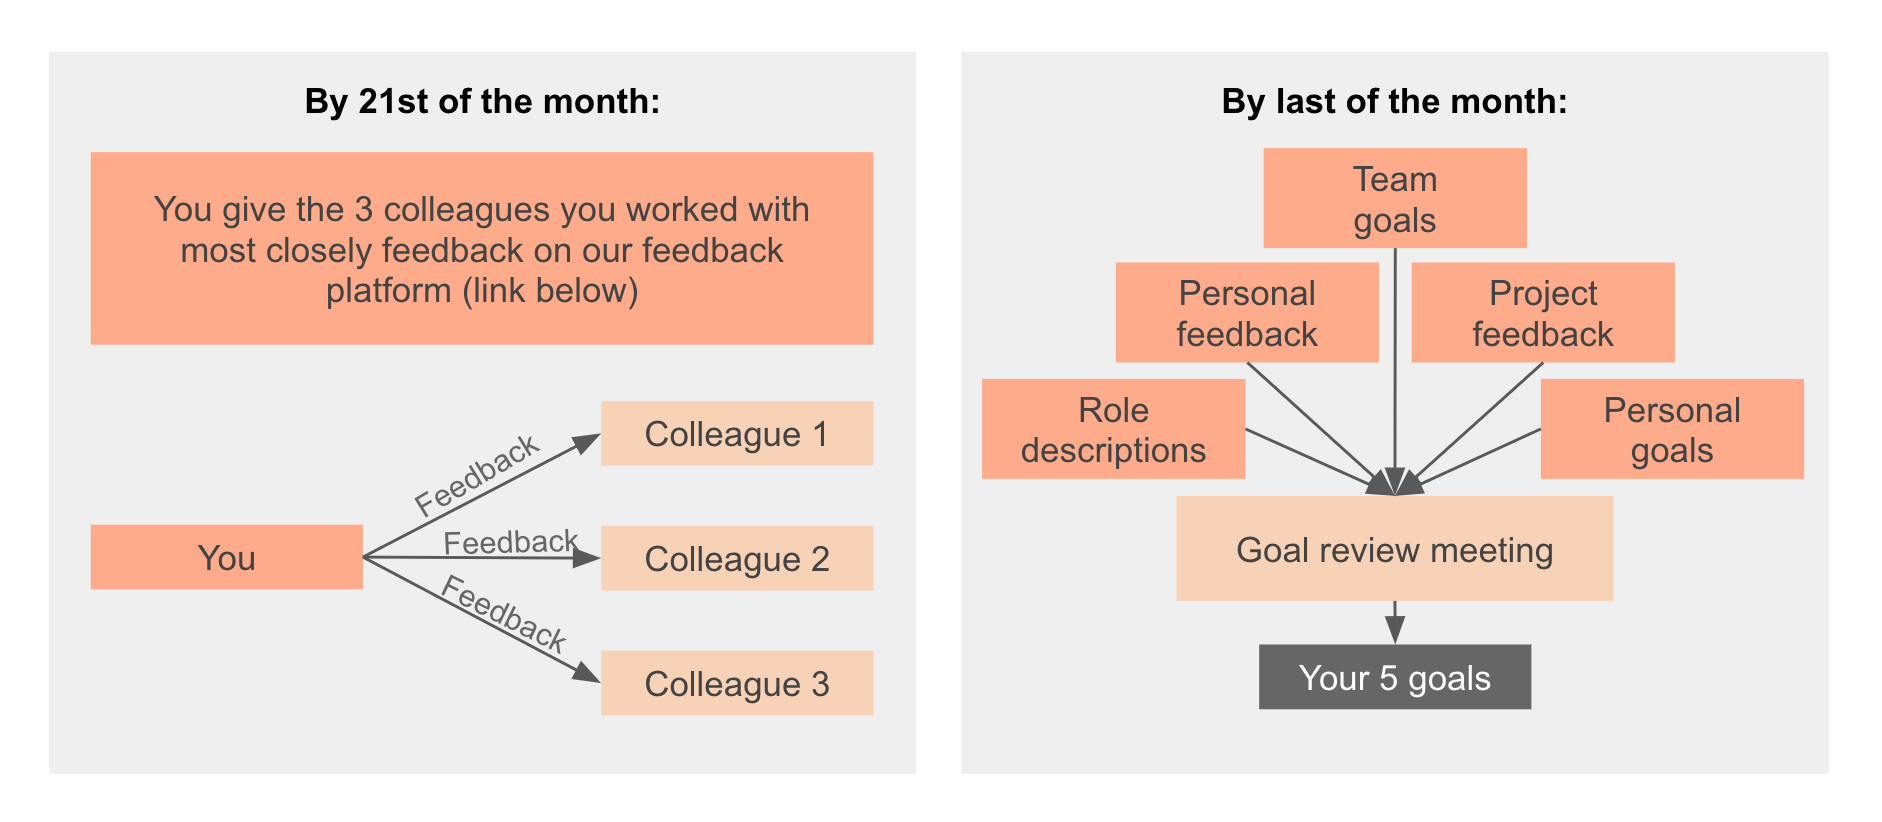
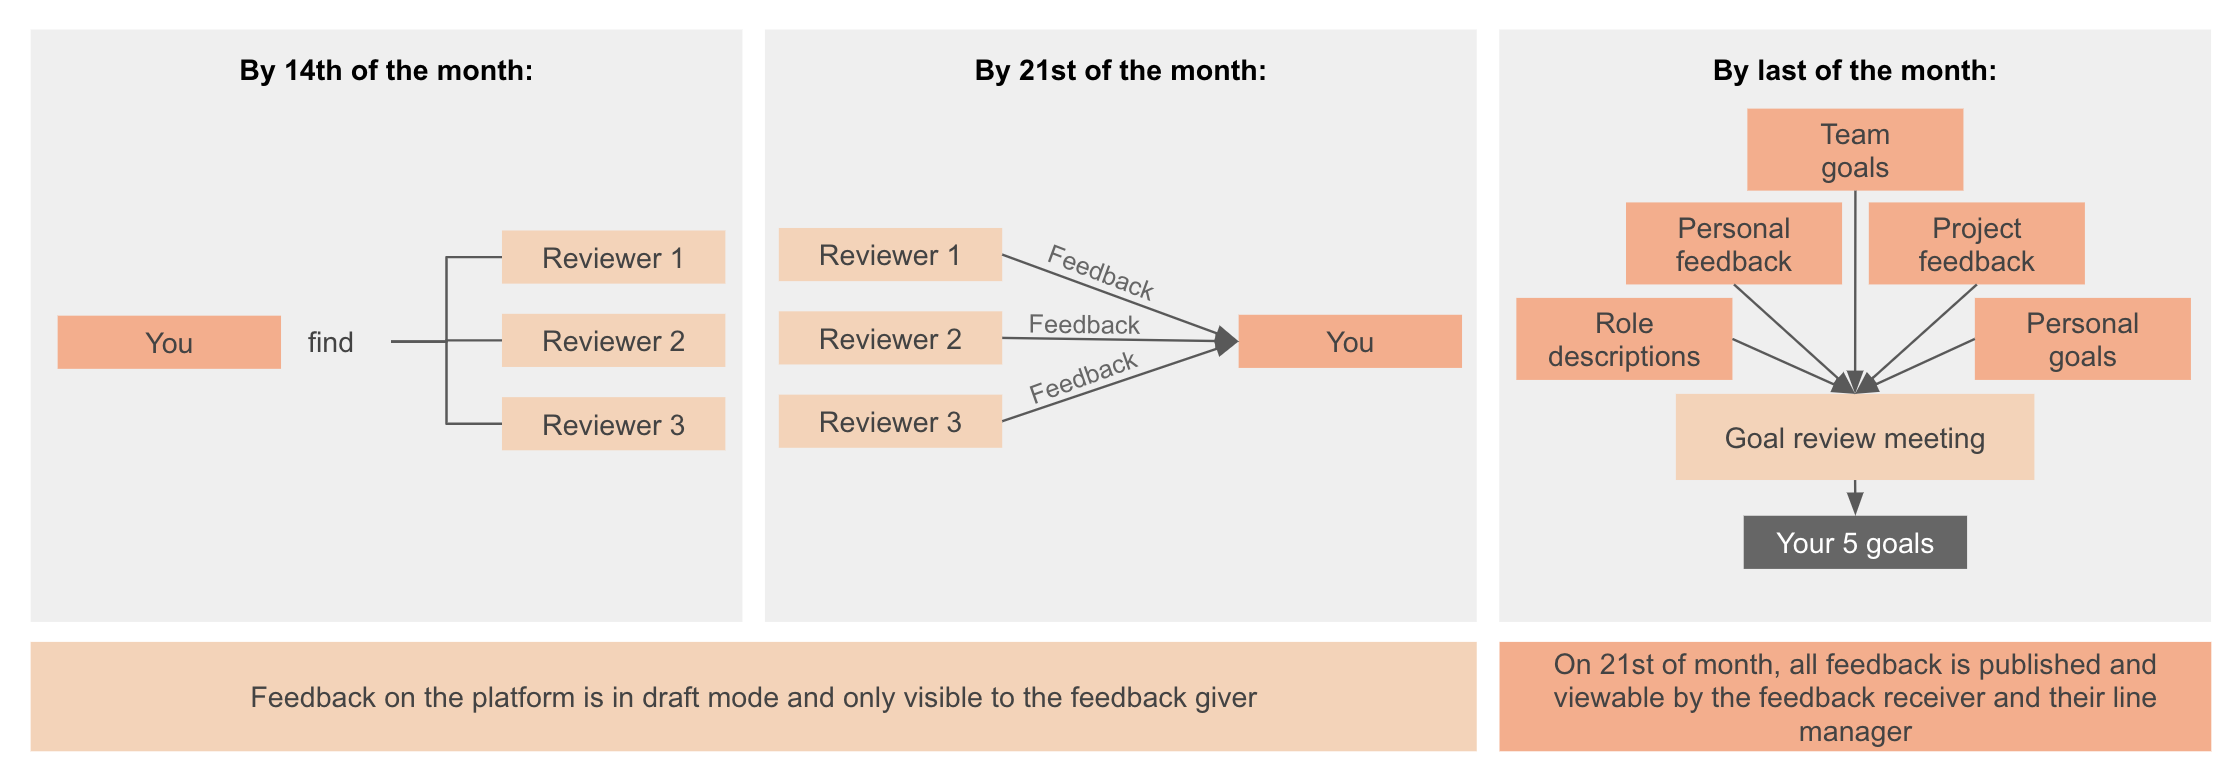
Updated goal review section - now we find three people to give us detailed feedback

diff --git a/handbook/professional-development/goal-reviews.md b/handbook/professional-development/goal-reviews.md
@@ -35,20 +35,22 @@ our plans and can help us achieve them.
 
 As part of our review process we reflect 
 on the interactions we've had in the last quarter and provide the people we've
-worked with with feedback. In total, we each provide 15 pieces of detailed feedback to our colleages. 
-
-This feedback addresses:
+worked with with feedback.This feedback addresses:
 *  our colleagues' progress towards goals
 *  what they did well
 *  what they could improve
 *  any other situational feedback
 
 The goals are set once a quarter in a conversation with our line manager, as per
-the below schedule.
+the below process.
 
 ### Goal Review Process
 
 ![Goal Reviews](../../assets/personal-goals.png)
+
+1. **By the 14th of the month**: We ask three people go give us detailed feedback. These individuals should then spend at least half an hour reflecting on working with us over the last 3 months and provide us with feedback. 
+2. **By the 21st of the month**: We provide the feedback on our platform. Until the 21st of the month all of the provided feedback is in draft mode and only viewable by the feedback giver. On the 21st it gets automatically published and is then viewable by the feedback receiver and their line manager.
+3. **By the last of the month**: The Goal Review Meeting takes place and together with our line manager we agree our goals for the next quarter.
 
 You can find our feedback platform
 [here](https://dvelp-feedback.firebaseapp.com/).
